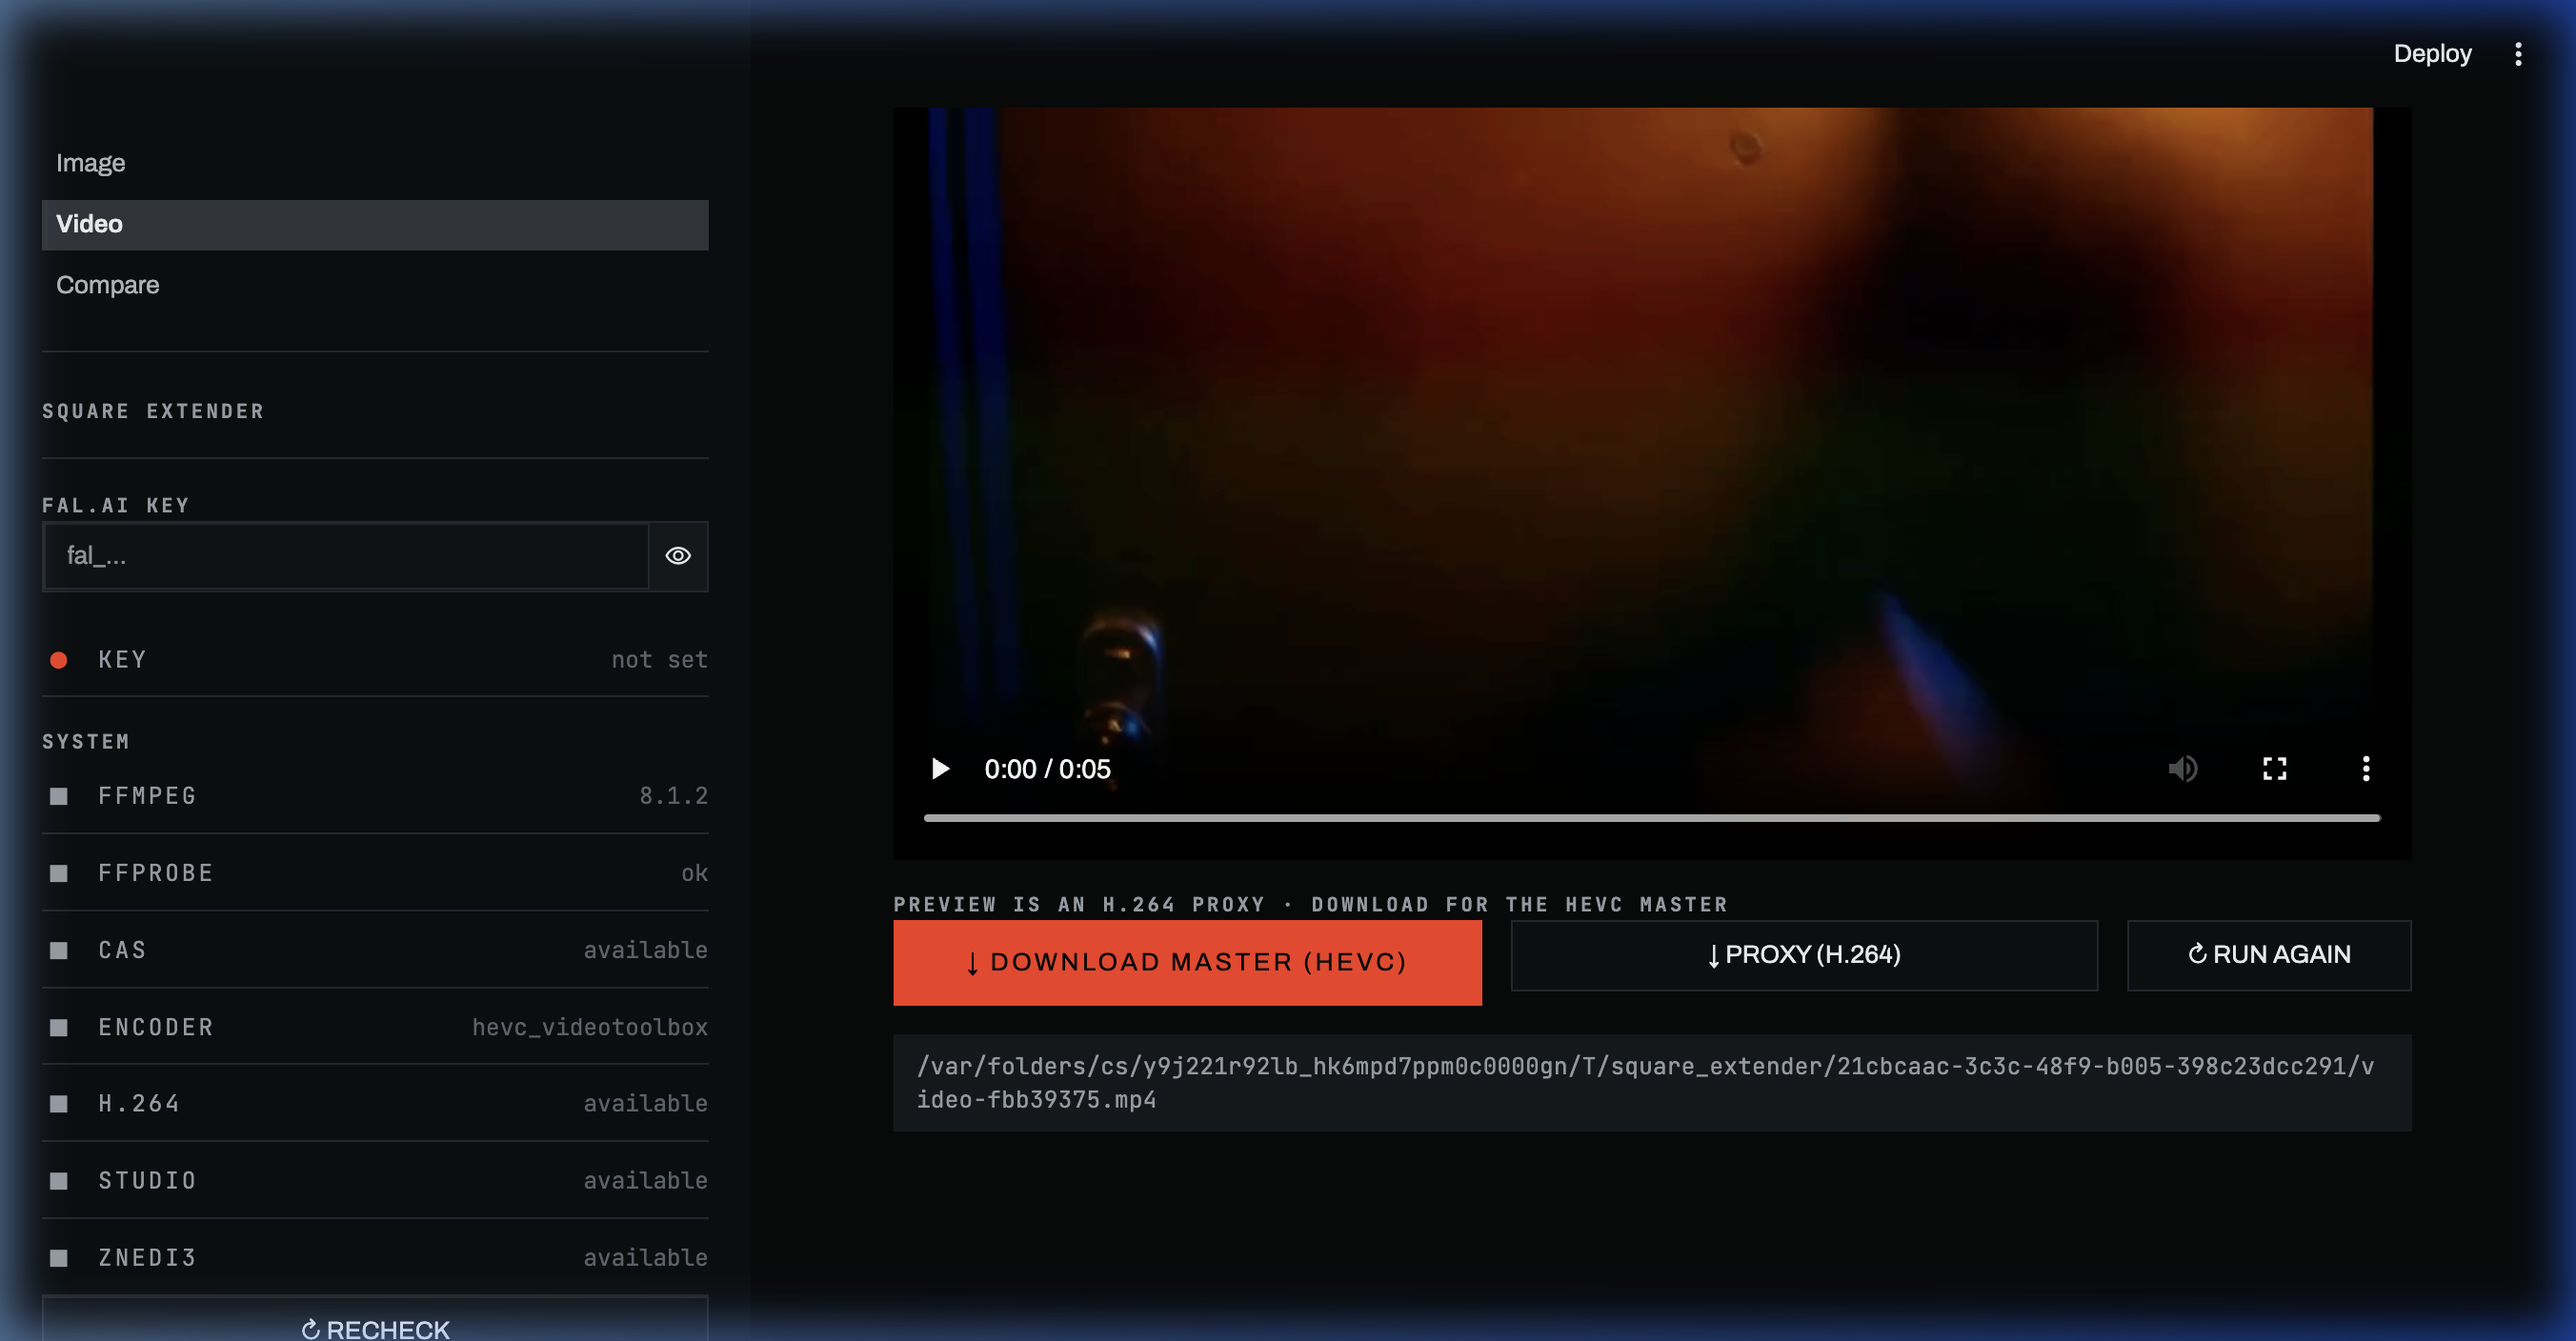
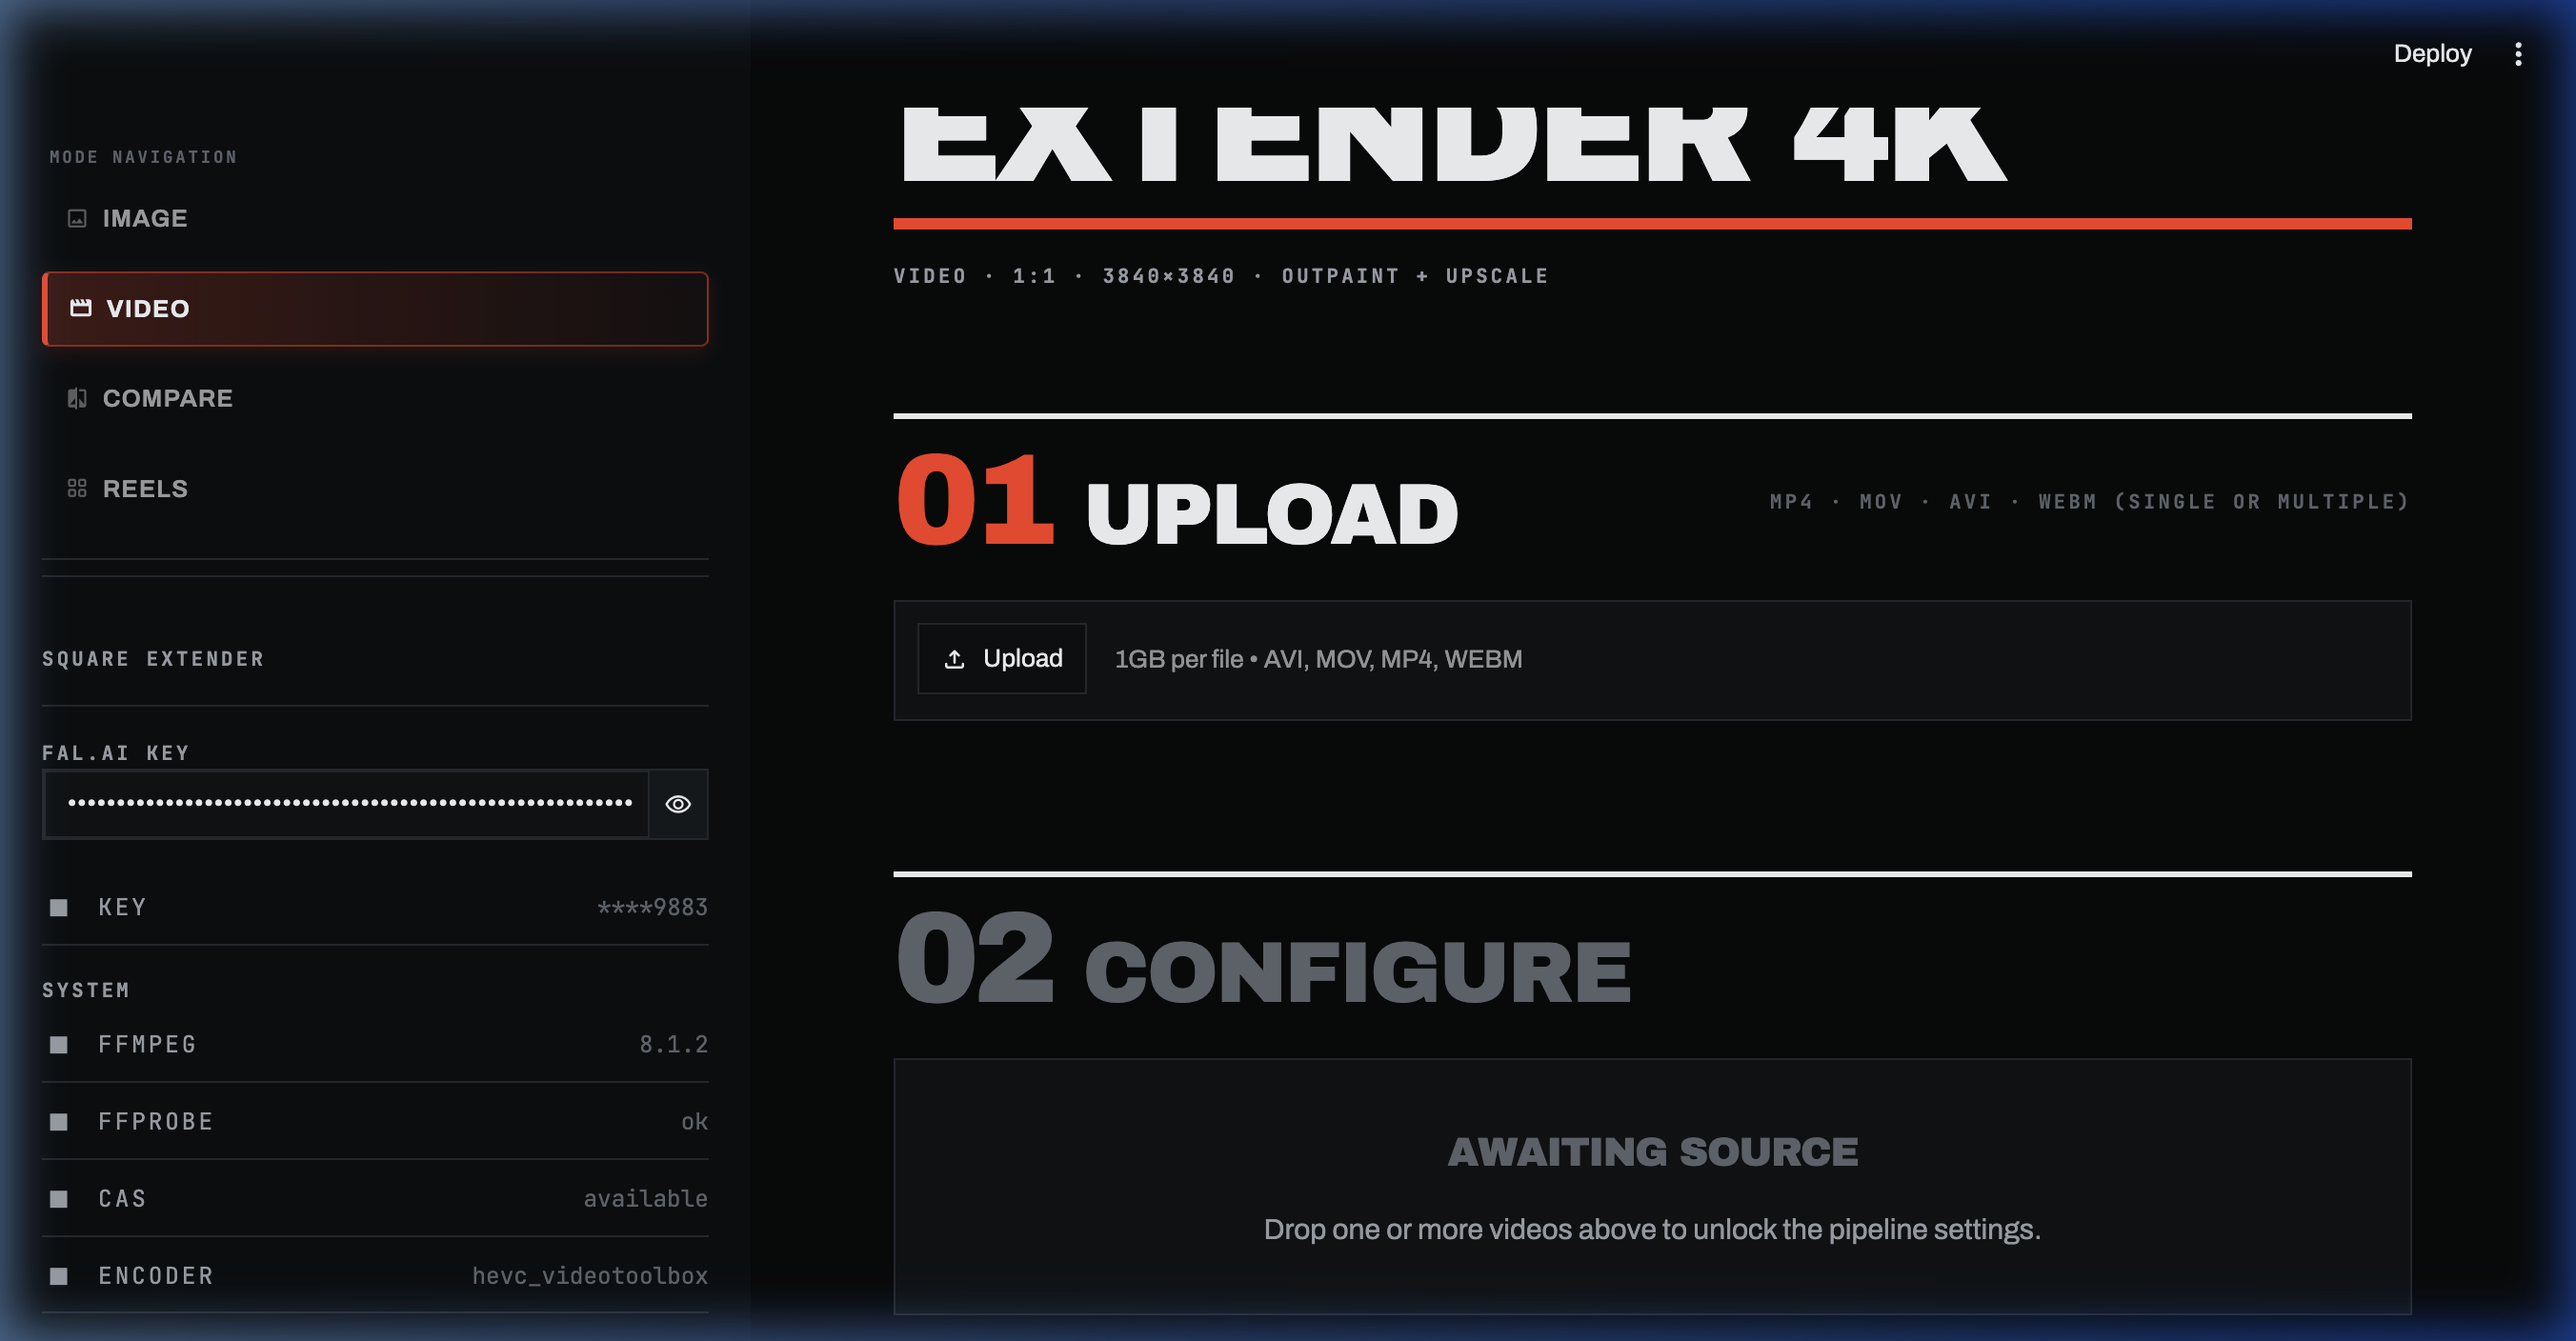
feat: implement native 4K HEVC playback, background preloading, and VR control toggles for Meta Quest 3 optimization

diff --git a/README.md b/README.md
@@ -1,9 +1,9 @@
 # Square Extender 4K
 
-Converts images and videos into a **1:1 square 4K master (3840×3840)** by generatively outpainting padding via [fal.ai](https://fal.ai) and upscaling locally with hardware-accelerated **FFmpeg** or **VapourSynth**.
+Converts images and videos into a **1:1 square 4K master (3840×3840)** by generatively outpainting padding via [fal.ai](https://fal.ai) and upscaling locally with hardware-accelerated **FFmpeg** or **VapourSynth**, featuring an integrated **WebXR 4K Reels Player** optimized for **Meta Quest 3**.
 
 ```
-UPLOAD (Single / Batch)  →  CONFIGURE (Outpaint & Upscale)  →  RESULT (4K Master)
+UPLOAD (Single / Batch)  →  CONFIGURE (Outpaint & Upscale)  →  ESTIMATE COST  →  RESULT (4K Master)  →  REELS (WebVR)
 ```
 
 ---
@@ -13,8 +13,11 @@ UPLOAD (Single / Batch)  →  CONFIGURE (Outpaint & Upscale)  →  RESULT (4K Ma
 ### Image Processing & Multi-File Batch Mode
 ![Image Processing Interface](docs/images/image_extender.png)
 
-### Video Processing & Engine Selection
+### Video Processing, Bytedance Upscaler & Live Cost Breakdown
 ![Video Processing Interface](docs/images/video_extender.png)
+
+### WebXR 4K Master Reels Player (Meta Quest 3 / WebVR)
+![Reels Player Interface](docs/images/reels_player.png)
 
 ### Interactive Render Comparison
 ![Compare Page Interface](docs/images/compare_slider.png)
@@ -24,13 +27,23 @@ UPLOAD (Single / Batch)  →  CONFIGURE (Outpaint & Upscale)  →  RESULT (4K Ma
 ## Key Features
 
 - ⚡ **Multi-Item Batch Upload**: Drop single or multiple images (`PNG`, `JPG`, `WEBP`) or videos (`MP4`, `MOV`, `AVI`, `WEBM`) at once.
-- ⚙ **Auto-Scaling Task Pool**: Dynamically manages CPU/GPU resources and queues jobs automatically when batch sizes exceed hardware capacity.
+- 🥽 **WebXR 4K Master Reels Player (Meta Quest 3)**:
+  - **Hardware HEVC Acceleration**: Native 4K HEVC playback on Quest 3 Snapdragon XR2 Gen 2.
+  - **IMAX Curved Screen Arc**: Authentic YouTube VR-style curved 3D quad geometry (`ARC_ANGLE = 0.6 rad`).
+  - **6DOF Natural Grab & Level Horizon**: Hold grip button to drag/reposition video screen; screen auto-aligns level to viewer POV with 0 sideways roll.
+  - **Interactive 3D Transport Panel**: Floating 2D canvas controls panel in 3D VR space with Play/Pause, Seek, Mute, Curve, and `🔄 AUTO` / `🔁 LOOP` playback mode toggles.
+  - **Background Preloader**: Pre-buffers next track for zero-latency reel transitions.
+- 💰 **Live Pre-Render Cloud Cost Estimator**: Real-time billing breakdown panel displayed before render, calculating effective video duration, outpaint stage costs, and upscale stage costs.
+- 🚀 **Bytedance Video Upscaler Cloud Model**:
+  - Model ID: `fal-ai/bytedance-upscaler/upscale/video`
+  - Configurable target resolution (`1080p`, `2k`, `4k`), FPS (`30fps`, `60fps`), quality tier (`fast`, `standard`, `pro`), scenario presets (`general`, `ugc`, `short_series`, `aigc`, `old_film`), and fidelity (`medium`, `high`).
+- 🎬 **Optimized 4K HEVC Master Video Encoding**:
+  - Hardware-accelerated local HEVC encoding (`hevc_videotoolbox` / `hevc_nvenc` / `libx265`).
+  - Capped 14M/16M VBR bitrate ceiling to prevent network buffer starvation on VR headsets.
+  - `-movflags +faststart` MOOV header placement for instant frame 1 pre-roll streaming.
 - 🎨 **Dual Pipeline Modes**:
-  - **OUTPAINT + UPSCALE**: Generatively extends short edges via `fal.ai` cloud models before upscaling.
+  - **OUTPAINT + UPSCALE**: Generatively extends short edges via `fal.ai` cloud models (LTX 2.3 Quality, Luma Ray-2 Reframe, Kling Video) before upscaling.
   - **UPSCALE ONLY**: Runs 100% locally with zero cloud API keys required.
-- 🚀 **Dual Video Upscale Engines**:
-  - **FAST**: FFmpeg Lanczos4 + Contrast Adaptive Sharpening (CAS). High-speed & universal.
-  - **STUDIO**: VapourSynth `znedi3` neural net luma reconstruction + FineSharp.
 - 🔍 **System Diagnostic & Self-Healing**: Auto-locates `ffmpeg`, `ffprobe`, `vspipe`, and HEVC hardware encoders across system PATHs and virtual environments.
 
 ---
@@ -63,7 +76,7 @@ Create a `.env` file from `.env.example`:
 FAL_KEY=your_fal_ai_api_key_here
 ```
 
-> **Note**: `FAL_KEY` is only required for generative outpainting. **UPSCALE ONLY** mode runs entirely offline.
+> **Note**: `FAL_KEY` is only required for generative outpainting and cloud upscaling. **UPSCALE ONLY (FAST / STUDIO)** mode runs entirely offline.
 
 ### 4. Launch Web Application
 
@@ -75,6 +88,20 @@ Open **http://localhost:8501** in your browser.
 
 ---
 
+## Meta Quest 3 WebXR Testing Setup
+
+WebXR requires a **Secure Context** (`https://` or `localhost`).
+
+1. Connect Meta Quest 3 to your Mac via USB-C.
+2. Open Chrome on Mac and go to `chrome://inspect/#devices`.
+3. Click **Port forwarding...** and add:
+   - `8501` → `localhost:8501` (Streamlit Web App)
+   - `8502` → `localhost:8502` (Media Server)
+4. On Meta Quest 3 Browser, navigate to: `http://localhost:8501/reels`.
+5. Click **"Enter VR 🥽"** to launch the immersive 4K VR Reels session!
+
+---
+
 ## Architecture
 
 ```
@@ -83,14 +110,15 @@ app.py                  Streamlit entrypoint: layout, navigation, environment se
 docs/images/            Documentation UI screenshots
 pipeline/               Core processing workers (thread-isolated)
 ├─ image_worker.py      fal.ai flux outpaint + FFmpeg Lanczos4 upscale
-├─ video_worker.py      fal.ai Kling video outpaint + FFmpeg / VapourSynth znedi3 upscale
-└─ utils.py             Geometry & padding math
+├─ video_worker.py      fal.ai (LTX / Luma / Kling outpaint + Bytedance / SeedVR2 upscale) + local HEVC master
+└─ utils.py             Geometry, padding math & execution logger
 ui/                     Editorial UI & state engine
-├─ views/               image_view, video_view, compare_view
+├─ views/               image_view, video_view, reels_view, compare_view
+├─ assets/              reels.html, webxr_vr.js, app.css
 ├─ runner.py            Thread pool manager with live progress streaming & queuing
 ├─ health.py            System PATH self-heal & hardware probes
-├─ media.py             Session staging, proxies & result persistence
-└─ assets/app.css       Custom theme CSS
+├─ media.py             Session staging, web proxies & result persistence
+└─ mediaserver.py       High-performance HTTP 206 range server (port 8502)
 ```
 
 ---
